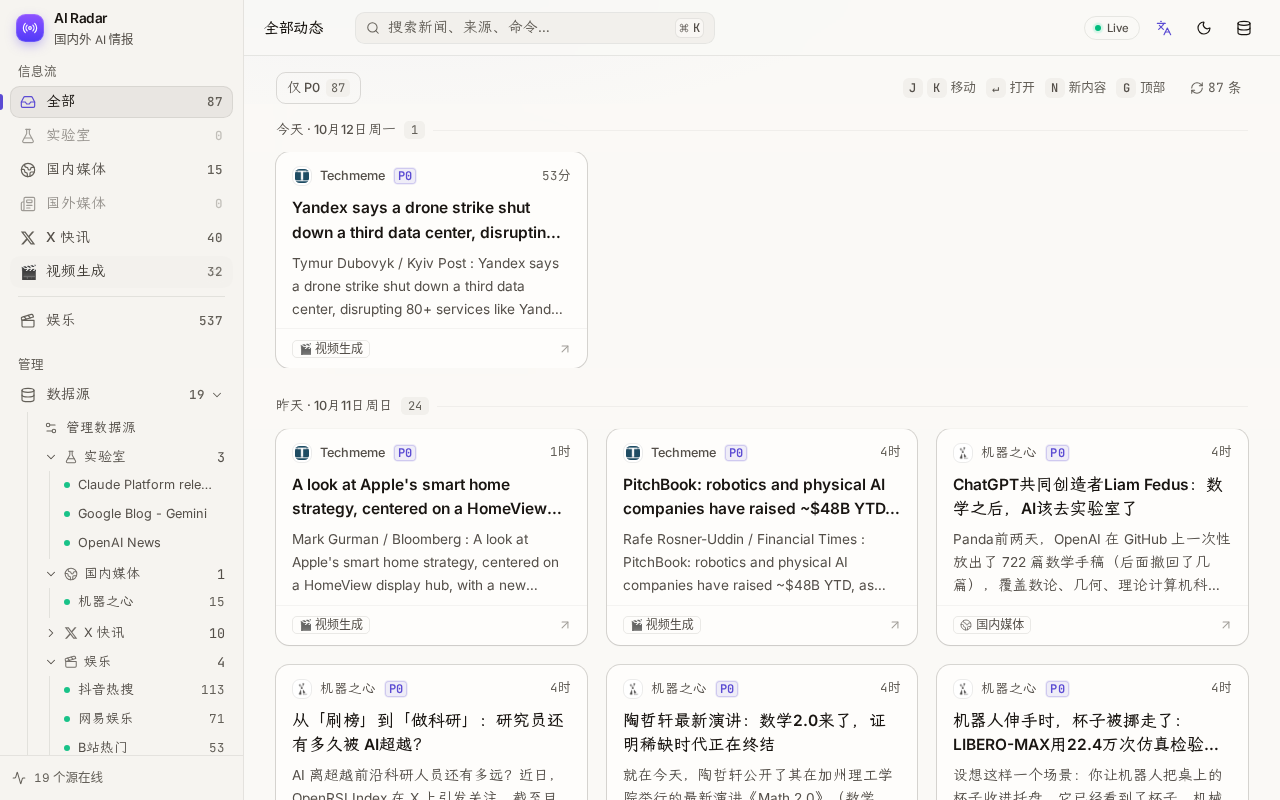
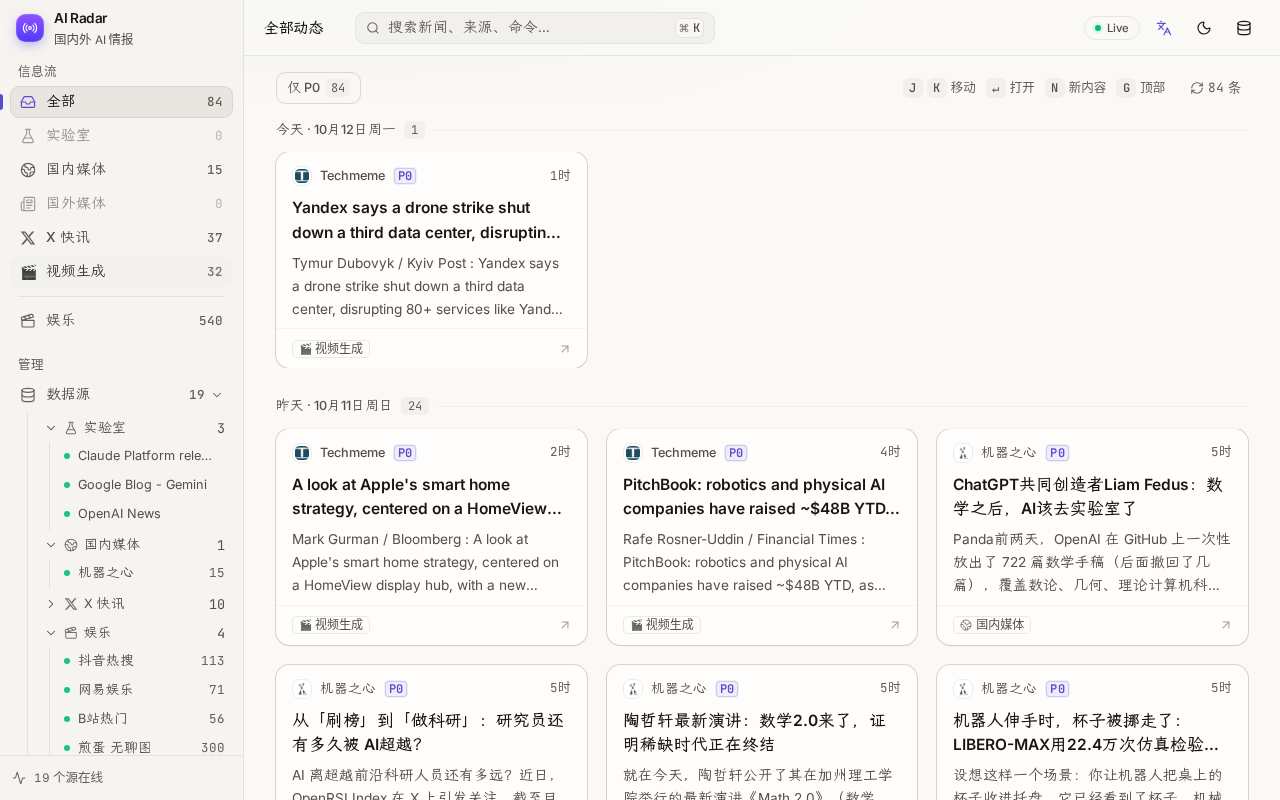
feat: drop 管理数据源 row from sidebar 数据源 group

Changed region(s): [[0.0312, 0.5312, 0.1562, 0.9375]]

diff --git a/src/components/app-shell.tsx b/src/components/app-shell.tsx
@@ -250,7 +250,6 @@ export function SidebarBody({ onNavigate }: { onNavigate?: () => void }) {
           {outside.map(sec)}
           <SectionLabel>管理</SectionLabel>
           <NavGroup icon={Database} label="数据源" count={active.length} storageKey={SOURCES_KEY} defaultOpen={false} inside={path === "/sources"}>
-            <GroupLink on={path === "/sources"} icon={Settings2} onClick={() => { router.push("/sources"); onNavigate?.(); }}>管理数据源</GroupLink>
             {sections.map((sec) => {
               const list = listOf(sec.key);
               if (!list.length) return null;

diff --git a/AGENTS.md b/AGENTS.md
@@ -205,7 +205,7 @@ See **docs/rate-limits.md** (or `/docs/rate-limits` in the app). Don't poll fast
 - **Icon picker** (`icon-picker.tsx`, lazy via `next/dynamic` inside a shadcn `Popover`; trigger = `IconPicker` in `source-form-parts.tsx`): ~90 curated emoji in 5 categories (AI/科技, 视频/图像, 资讯/写作, 商业/安全, 娱乐), zh/en keyword search, 8 recents (`localStorage iconPicker.recent`), preview + 清除图标. Lucide icons deliberately not offered (bundle cost).
 - **Section delete**: from /sources 「分区」 dialog or the sidebar ⚙ (opens the same dialog). AlertDialog warns it can't be undone, shows affected source count, has 「先导出备份（JSON）」 (`exportBackup()`), then the move-to select (defaults to 国外媒体 when present) and destructive confirm. Applies to every section (see "All sections are user-managed").
 - **Rename sources**: click the name on /sources (inline Input; Enter/blur saves, Esc cancels), row menu 「重命名」, or the edit dialog. `PATCH /api/sources/[id] {name}`: trimmed, 1–80 chars, unique (case-insensitive), marks `name` override. Seed sources keep their sources.json name in `sources.seed_name`; `seed()` and delete tombstones match on `COALESCE(seed_name, name)`, so seed sync never reverts a rename or re-adds a duplicate. Feed/sidebar/export read `sources.name`, so the new name shows everywhere.
-- **Sidebar**: top section rows are plain filters (+ hover ⚙ → 管理分区). 管理 › 「数据源」 is a `NavGroup` (same component as 「文档」) that only toggles (no navigation); its first child 「管理数据源」 links to /sources, then one `SourceFolder` per section (user order, trigger aria-label `文件夹：<name>`) listing its sources (counts, status, unsubscribe+undo, click = filter by source). Group open state: `localStorage sidebar.sources.open` (default collapsed); collapsed folders: `sidebar.folders.closed`. There is no separate bottom 订阅源 list.
+- **Sidebar**: top section rows are plain filters (+ hover ⚙ → 管理分区). 管理 › 「数据源」 is a `NavGroup` (same component as 「文档」) that only toggles (no navigation) and holds one `SourceFolder` per section (user order, trigger aria-label `文件夹：<name>`) listing its sources (counts, status, unsubscribe+undo, click = filter by source). Group open state: `localStorage sidebar.sources.open` (default collapsed); collapsed folders: `sidebar.folders.closed`. There is no separate bottom 订阅源 list and no 管理数据源 row; /sources is reached via the header 数据源 button (≥sm), the command palette (管理数据源 / 添加数据源), and a section row's ⚙ (opens 管理分区).
 - Section selects (add/edit, /sources filter, move-to, import preview) and the /sources section column show the NAME only (no icon); icons appear in sidebar rows/folders, manage dialog, icon picker, feed/drawer/palette badges.
 - NavItem merges `className` last (so `pr-8` beats the base `px-2.5`).
 - Tests: external Playwright t8 (icon picker, delete + backup download + cancel, rename + restart, tree persistence).

diff --git a/README.md b/README.md
@@ -128,7 +128,7 @@ npm run build && npm run start -- -p 3000
 - **分区图标**：点图标按钮打开选择器，可按分类浏览、搜索（如「视频」「设计」）、使用最近选过的图标，或清除图标。
 - **管理分区**：所有分区（包括原来的实验室、国内媒体、国外媒体、X 快讯、娱乐）都可在「数据源 › 分区」或侧栏分区上的 ⚙ 里重命名、换图标、上下移动排序、设置是否计入「全部」或删除；只有「全部」固定。删除时会提示无法撤销、影响多少来源，并提供「先导出备份（JSON）」；有来源的分区需选择要移入的分区。重启或内置源同步不会恢复已删除的分区，也不会改回你的修改；新增的内置源若原分区已被删除，会放进自动创建的「未分类」。
 - **重命名来源**：在「数据源」列表点名称直接编辑（回车保存、Esc 取消），或行菜单「重命名」/「编辑」。重命名会保留，重启和内置源同步都不会改回；信息流、侧栏、导出都使用新名称。
-- **侧栏数据源**：「管理 › 数据源」和「文档」一样是可折叠分组（点标题只展开/收起），第一项「管理数据源」进入数据源页；下面每个分区是一个可单独折叠的文件夹，列出该分区的订阅源（点击筛选该来源，悬停可取消订阅）。展开状态会记住。
+- **侧栏数据源**：「管理 › 数据源」和「文档」一样是可折叠分组（点标题只展开/收起），里面每个分区是一个可单独折叠的文件夹，列出该分区的订阅源（点击筛选该来源，悬停可取消订阅）。展开状态会记住。数据源管理页可从顶栏的数据源按钮、命令面板（⌘K →「管理数据源」）或分区行的 ⚙ 进入。
 
 ## 数据保留与资源
 
